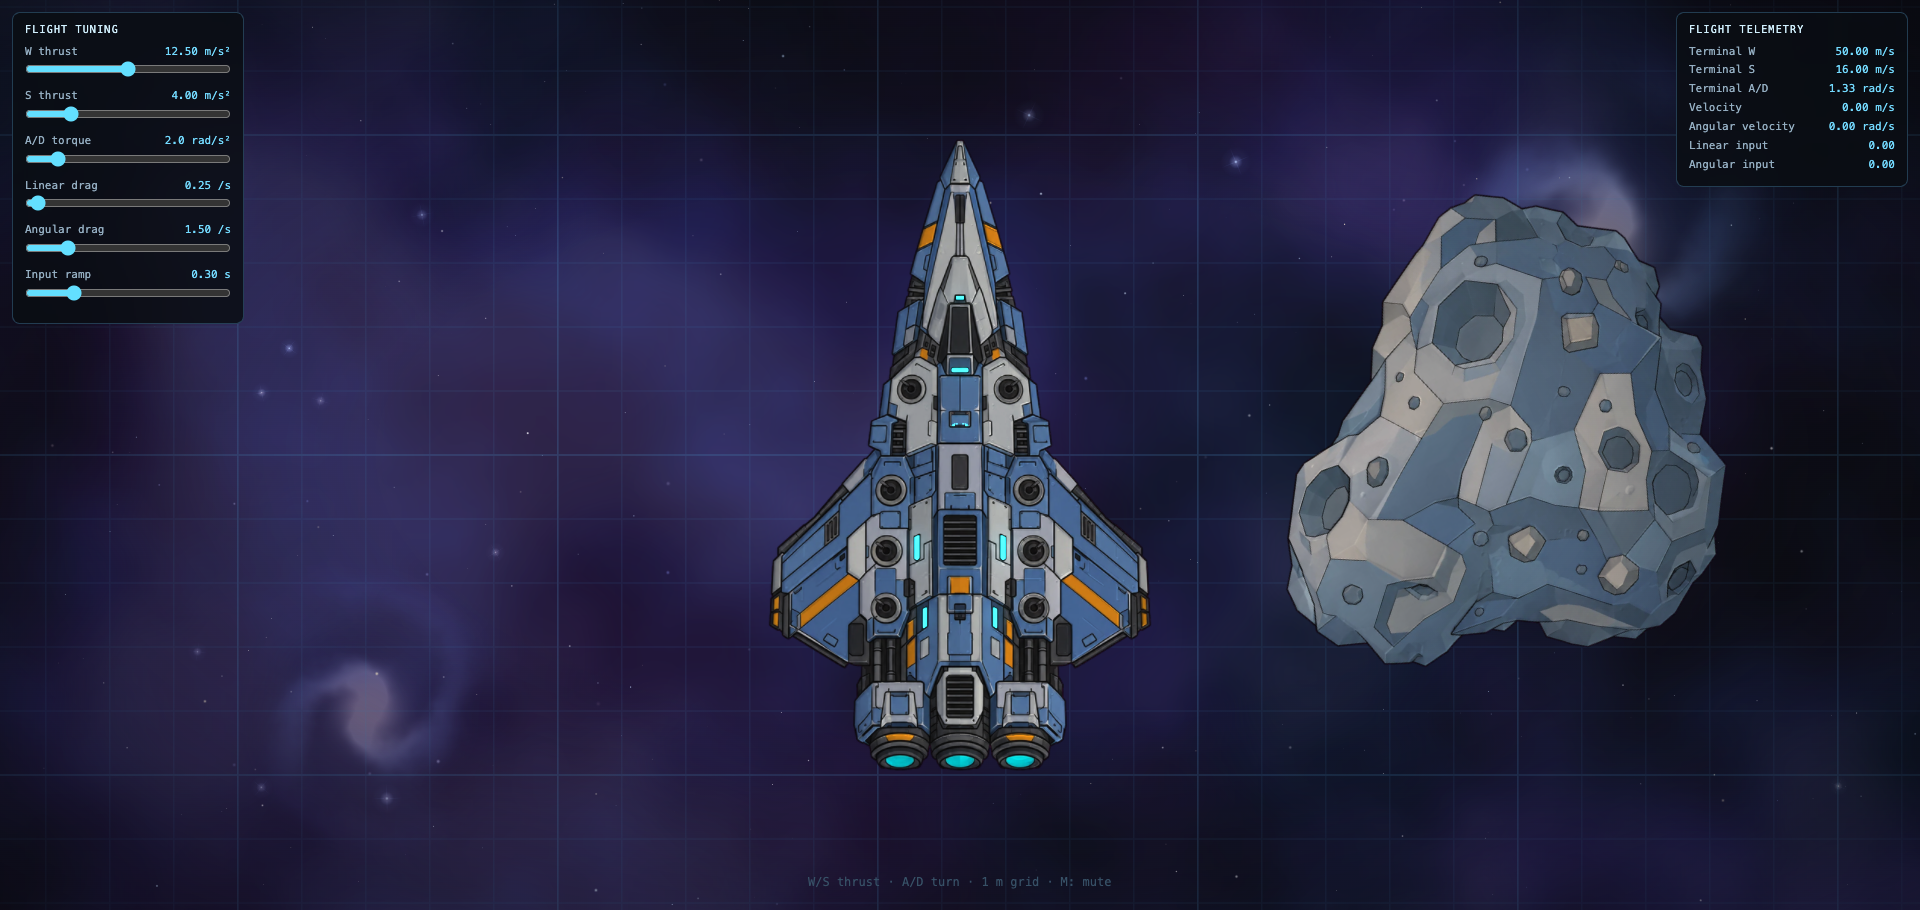
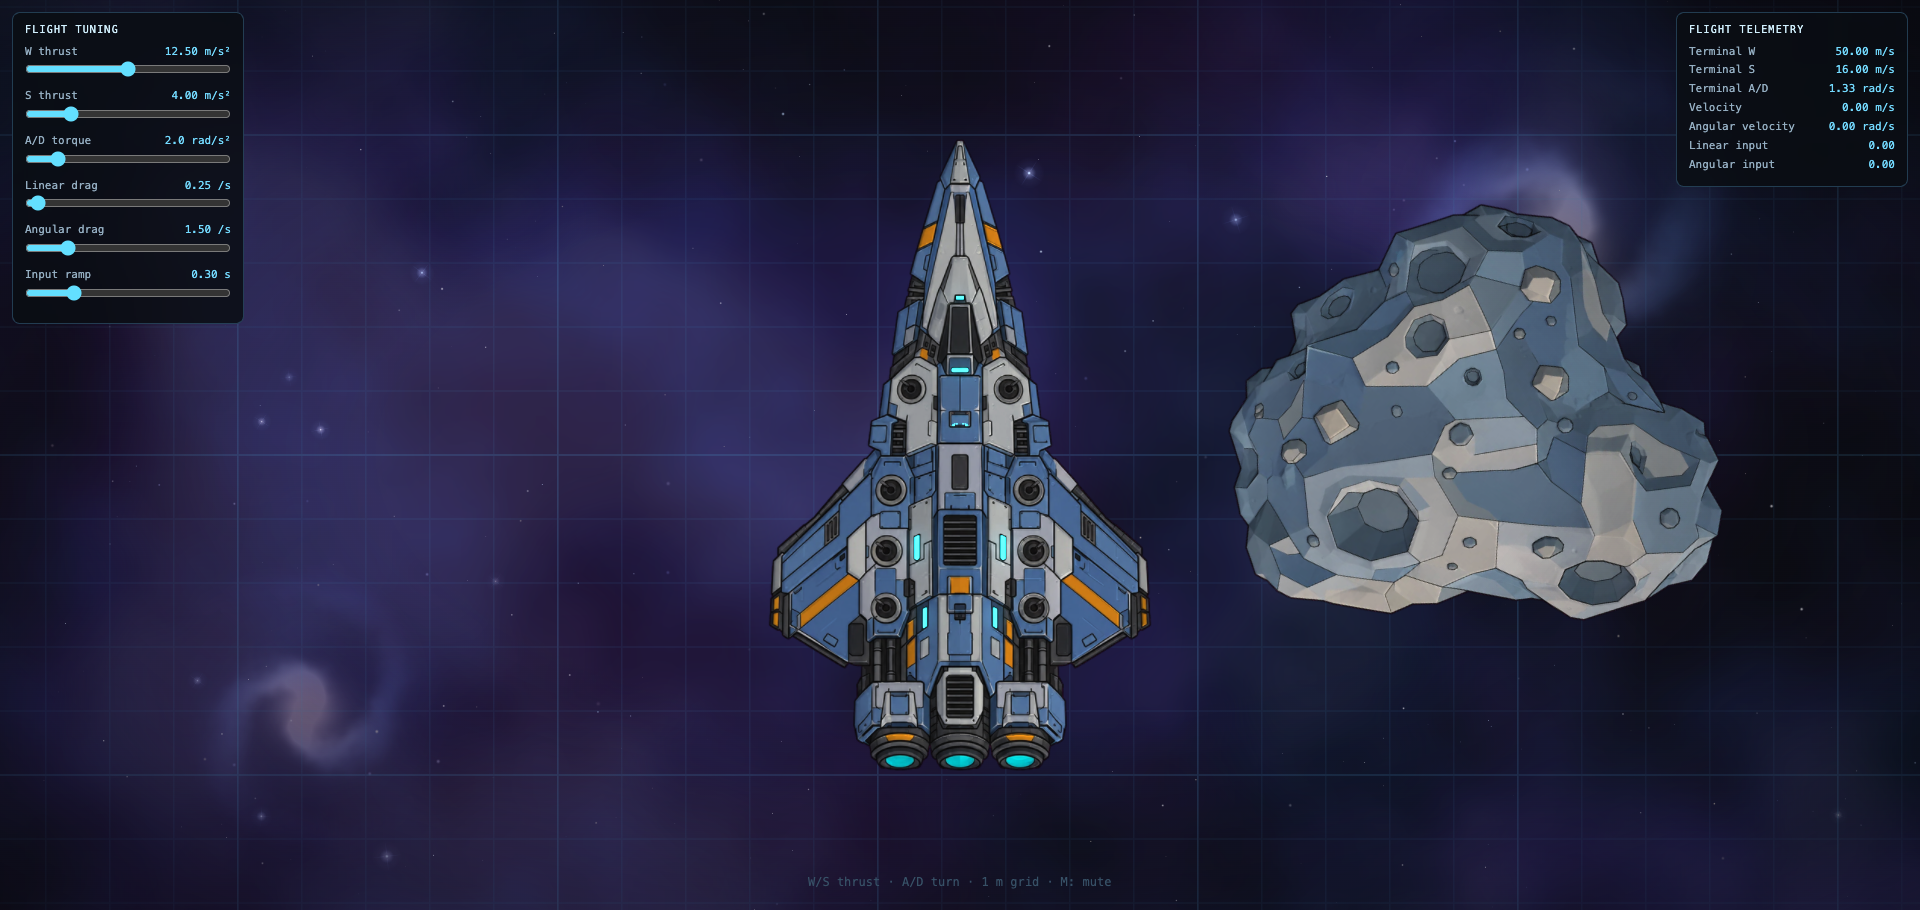
fix: pin the galaxies to the fixed sky

Changed region(s): [[0.625, 0.1538, 0.9062, 0.7385], [0.0938, 0.7077, 0.25, 0.8615]]

diff --git a/src/app/background.ts b/src/app/background.ts
@@ -66,8 +66,10 @@ const GALAXIES = [
   {
     x: 0.31,
     y: -0.23,
-    parallax: 0.18,
-    zoomResponse: 0.05,
+    // Distant galaxies are fixed sky, not a parallax layer: at flight speed a
+    // non-zero parallax eventually carries them off-screen.
+    parallax: 0,
+    zoomResponse: 0,
     alpha: 0.62,
     scaleFactor: 0.56,
     rotation: -0.7,
@@ -76,8 +78,8 @@ const GALAXIES = [
   {
     x: -0.34,
     y: 0.28,
-    parallax: 0.26,
-    zoomResponse: 0.05,
+    parallax: 0,
+    zoomResponse: 0,
     alpha: 0.44,
     scaleFactor: 0.38,
     rotation: 2.2,

diff --git a/AGENTS.md b/AGENTS.md
@@ -109,6 +109,8 @@ behaviour, also run `pnpm browser:inspect` and check the screenshot.
   full-screen shaders or filters unless profiling justifies them.
 - **Flight physics is metric.** Keep velocities/accelerations/positions in metres; convert to
   screen pixels only at render time with `PIXELS_PER_METER`. Grid/telemetry display metres.
+- **Galaxies are fixed sky.** The two galaxy sprites have zero parallax/zoom response; only
+  stars, nebulas, and the near dust layer pan.
 - **Zoom is depth-weighted.** Far stars/nebulas stay at a fixed scale; mid/near stars respond
   partially; near dust takes the full pan + zoom. Zoom is clamped to `0.02`–`1` (1× is the
   default and maximum zoom-in) and exposed as

diff --git a/README.md b/README.md
@@ -88,6 +88,8 @@ docs/                     Architecture decisions, reference art and agent workfl
   with the camera, never on its own).
 - A subtle cyan **ground grid** is fixed to that layer: minor cells are **1 m × 1 m** (64 world
   px per metre), major lines every 5 m. Ship movement and speed read against it.
+- The two distant galaxies are fixed to the sky (no parallax/zoom) so high-speed flight never
+  carries them off-screen.
 - The top-left **FLIGHT TUNING** panel has live sliders for thrust, torque, linear/angular drag
   and input ramp. The top-right **FLIGHT TELEMETRY** panel shows terminal W/S/A-D speeds,
   current velocity, angular velocity, and ramped inputs (all linear units in metres).
